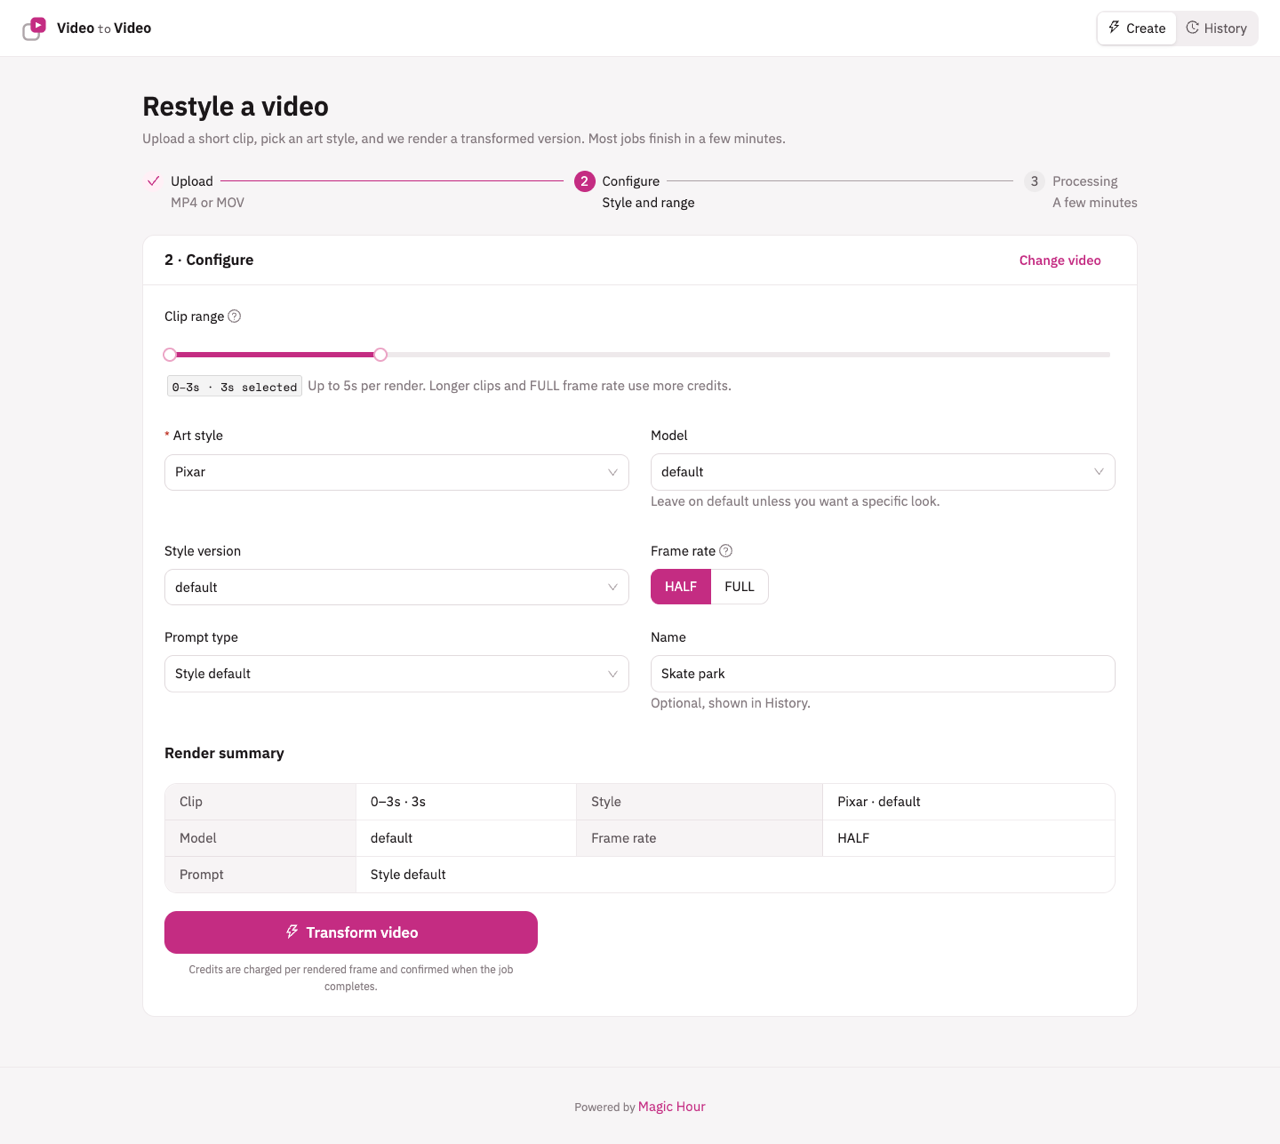
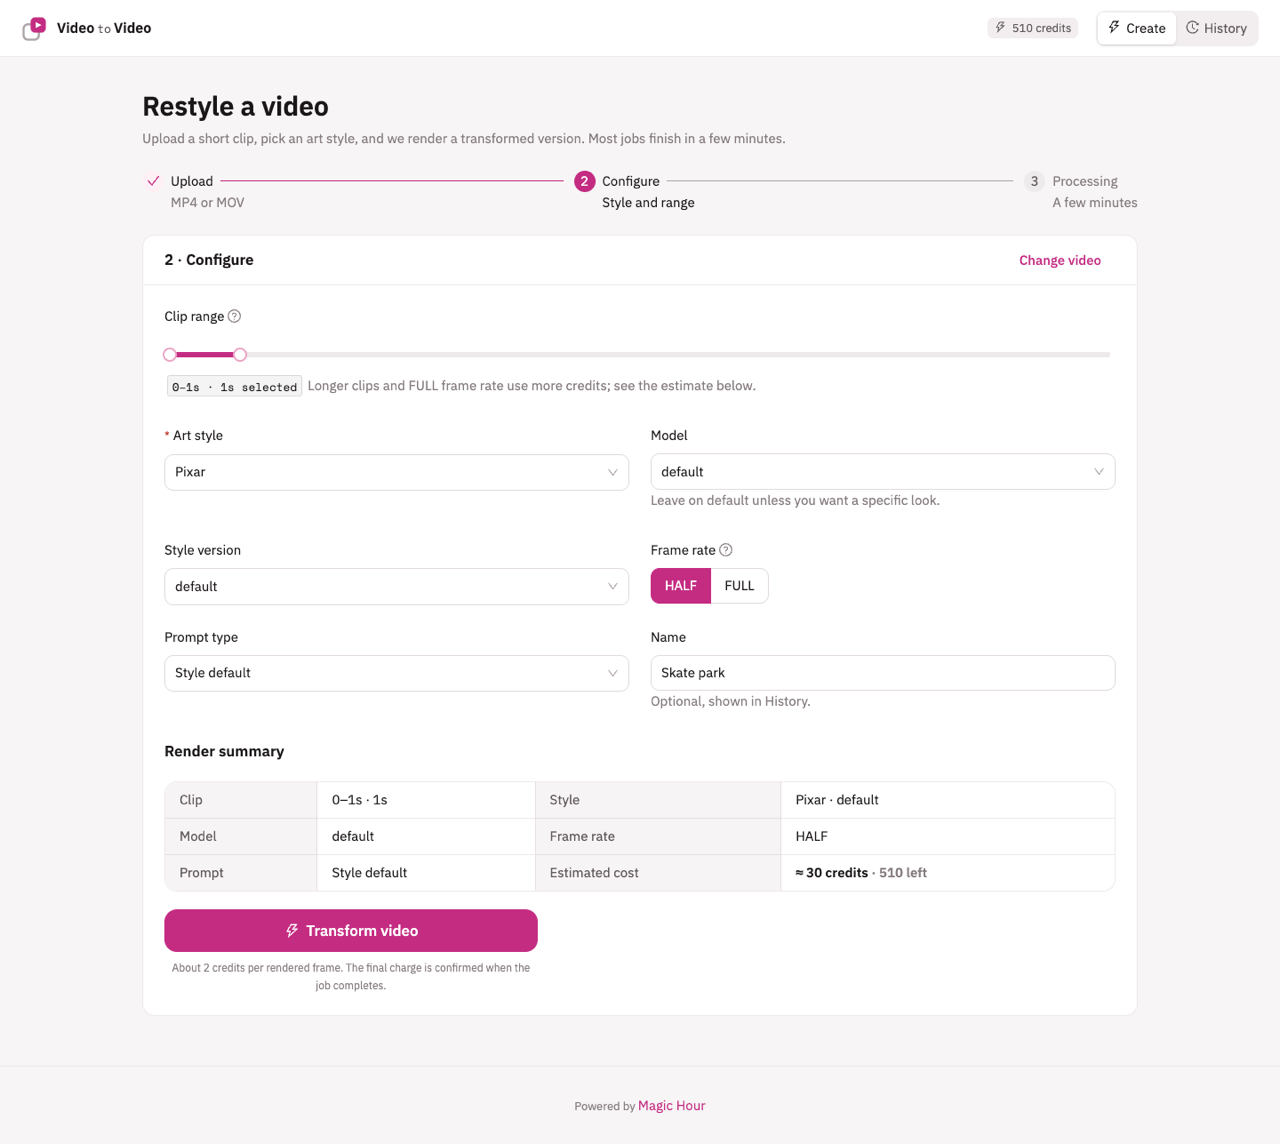
feat: remove the 5s clip cap and default to a 1s range
The cap's slider normalize fought the drag and made the handle jitter. The live cost estimate and balance check now protect the budget; the form defaults to 1s (about 30 credits at HALF).

diff --git a/src/components/TransformForm.tsx b/src/components/TransformForm.tsx
@@ -9,7 +9,6 @@ import {
   ART_STYLES,
   estimateCredits,
   FPS_RESOLUTIONS,
-  MAX_CLIP_SECONDS,
   MODELS,
   PROMPT_TYPES,
   type TransformParams,
@@ -26,13 +25,6 @@ const PROMPT_TYPE_LABELS: Record<(typeof PROMPT_TYPES)[number], string> = {
   append_default: "Style default + my prompt",
 };
 const round1 = (n: number) => Math.round(n * 10) / 10;
-
-// Keeps the range within MAX_CLIP_SECONDS by dragging the other handle along.
-function capRange(value: [number, number], prev?: [number, number]): [number, number] {
-  const [start, end] = value;
-  if (end - start <= MAX_CLIP_SECONDS) return value;
-  return prev && start !== prev[0] ? [start, round1(start + MAX_CLIP_SECONDS)] : [round1(end - MAX_CLIP_SECONDS), end];
-}
 
 interface Props {
   source: UploadedVideo;
@@ -83,7 +75,7 @@ export function TransformForm({ source, initial, onSubmitted }: Props) {
       onFinish={submit}
       disabled={submitting}
       initialValues={{
-        range: initial ? [initial.start_seconds, initial.end_seconds] : [0, Math.min(3, max)],
+        range: initial ? [initial.start_seconds, initial.end_seconds] : [0, Math.min(1, max)],
         fps_resolution: initial?.fps_resolution ?? "HALF",
         name: initial?.name,
         style: initial?.style ?? { version: "default", model: "default", prompt_type: "default" },
@@ -95,7 +87,6 @@ export function TransformForm({ source, initial, onSubmitted }: Props) {
         label="Clip range"
         name="range"
         tooltip="Only the selected range is transformed."
-        normalize={capRange}
         extra={
           <>
             {range && (
@@ -103,7 +94,7 @@ export function TransformForm({ source, initial, onSubmitted }: Props) {
                 {range[0]}–{range[1]}s · {round1(range[1] - range[0])}s selected
               </Typography.Text>
             )}{" "}
-            Up to {MAX_CLIP_SECONDS}s per render. Longer clips and FULL frame rate use more credits.
+            Longer clips and FULL frame rate use more credits; see the estimate below.
           </>
         }
         rules={[

diff --git a/src/lib/schemas.ts b/src/lib/schemas.ts
@@ -48,9 +48,6 @@ export interface UploadedVideo {
   name?: string; // original file name, added client-side
 }
 
-// Caps credit spend per job (~30 credits per second at HALF frame rate).
-export const MAX_CLIP_SECONDS = 5;
-
 // Magic Hour prices video-to-video at 48 credits/second at 24 fps, i.e. 2 credits per rendered frame.
 // HALF renders every other frame. Magic Hour corrects the charge after rendering, so this is an estimate.
 const CREDITS_PER_FRAME = 2;
@@ -79,10 +76,6 @@ export const transformParamsSchema = z
   })
   .refine((p) => p.end_seconds > p.start_seconds, {
     message: "End time must be after start time",
-    path: ["end_seconds"],
-  })
-  .refine((p) => p.end_seconds - p.start_seconds <= MAX_CLIP_SECONDS + 1e-9, {
-    message: `Clip can be at most ${MAX_CLIP_SECONDS} seconds`,
     path: ["end_seconds"],
   })
   .refine((p) => p.style.prompt_type === "default" || !!p.style.prompt, {

diff --git a/README.md b/README.md
@@ -69,7 +69,7 @@ npm run dev                       # http://localhost:3000
 |---|---|
 | `npm run dev` / `build` / `start` | Next.js dev server, production build, production server |
 | `npm run lint` | ESLint |
-| `npm run check:logic` | Assertion checks for input validation, the 5 s clip cap, the credit estimate and webhook signature verification. Needs no keys. |
+| `npm run check:logic` | Assertion checks for input validation, the credit estimate and webhook signature verification. Needs no keys. |
 | `npm run check:services` | Connects to MongoDB, Cloudinary and Magic Hour with your `.env.local`. Free. |
 | `npm run webhook:replay -- <mhJobId> [completed\|errored] [url]` | Sends a correctly signed Magic Hour-style event to your local app, for testing the webhook without a tunnel |
 
@@ -102,7 +102,7 @@ Indexes are created automatically on first connection.
 
 ### Magic Hour credits
 
-The free tier starts with 500 credits. Magic Hour prices video-to-video at **48 credits per second at 24 fps**, i.e. **2 credits per rendered frame**. HALF renders every other frame, so a 30 fps clip costs about 30 credits per second at HALF and 60 at FULL (matching the charges on our real test jobs). To protect the budget, **clips are capped at 5 seconds**, enforced in both the form and the API.
+The free tier starts with 500 credits. Magic Hour prices video-to-video at **48 credits per second at 24 fps**, i.e. **2 credits per rendered frame**. HALF renders every other frame, so a 30 fps clip costs about 30 credits per second at HALF and 60 at FULL (matching the charges on our real test jobs).
 
 The app shows the account's **remaining credits** in the header (`GET /api/credits`) and a live **estimated cost** in the render summary before submitting: `2 × clip seconds × output fps`, using the source frame rate Cloudinary reports at upload. Submit is disabled when the estimate exceeds the balance. Magic Hour settles the exact charge after rendering, and History shows that final number.
 
@@ -289,4 +289,4 @@ scripts/                     check-logic, check-services, replay-webhook
 - **Anonymous history.** It's per browser, so a different browser or a private window has its own history.
 - **History shows the newest 50 items.** Paging (an `_id < before` cursor) is a small addition if needed.
 - **No background worker.** Fallback polling runs only when someone views History or the Processing step. Webhooks cover the rest in production.
-- **The 5 s clip cap** exists to protect the free credit budget. It's one constant (`MAX_CLIP_SECONDS` in `src/lib/schemas.ts`).
+- **No clip length cap.** The budget is protected by the live cost estimate and the balance check, and the form defaults to a 1 s range (≈30 credits at HALF). Magic Hour itself rejects jobs the account can't afford (402).

diff --git a/AGENTS.md b/AGENTS.md
@@ -20,7 +20,7 @@ Video to Video: upload a short clip, pick a Magic Hour art style, get an AI-rest
 |---|---|
 | `npm run dev` | Dev server on :3000. Needs `.env.local` (see `.env.example`). |
 | `npx tsc --noEmit` · `npm run lint` · `npm run build` | Run all three before calling a change done. |
-| `npm run check:logic` | Assertion checks for schemas, the clip cap, the credit estimate and webhook signatures. No keys needed; extend it when you touch that logic. |
+| `npm run check:logic` | Assertion checks for schemas, the credit estimate and webhook signatures. No keys needed; extend it when you touch that logic. |
 | `npm run check:services` | Verifies MongoDB, Cloudinary and Magic Hour credentials. Free. |
 | `npm run webhook:replay -- <mhJobId> [completed\|errored]` | Sends a signed test webhook to the local app. |
 
@@ -41,7 +41,7 @@ There is no unit-test framework on purpose; `check:logic` is the test suite.
 2. **Results only go through `applyProjectResult`.** It is idempotent (final states are never overwritten, and the Cloudinary public id is the job id) because Magic Hour retries webhooks for 24 h.
 3. **Webhook:** verify the HMAC signature over the **raw** body before parsing. Return non-2xx only when a retry should happen (404 unknown job, 500 transient failure).
 4. **`timed_out` is not final.** A late result must still be able to complete the record.
-5. **Validation lives in zod schemas** used on both sides. Server routes must never trust the client (upload URL allowlist, own-Cloudinary source check, 5 s clip cap).
+5. **Validation lives in zod schemas** used on both sides. Server routes must never trust the client (upload URL allowlist, own-Cloudinary source check).
 6. **Secrets stay server-side.** Only `NEXT_PUBLIC_UPLOADCARE_PUBLIC_KEY` reaches the browser. Read env through `env()` (lazy, zod-validated).
 7. API errors are `{ error: string }` with a user-facing message; log details server-side with `console.error`.
 

diff --git a/docs/api.md b/docs/api.md
@@ -25,7 +25,7 @@ Starts a Magic Hour job. `params` mirrors Magic Hour's request body, so every mo
   "source": { "url": "https://res.cloudinary.com/<cloud>/video/upload/…", "publicId": "video2video/sources/<id>" },
   "params": {
     "name": "Skate park",                       // optional
-    "start_seconds": 0, "end_seconds": 3,       // end > start, length ≤ 5 s
+    "start_seconds": 0, "end_seconds": 3,       // end > start, within the video
     "fps_resolution": "HALF",                   // HALF | FULL
     "style": {
       "art_style": "Pixar",                     // one of 75 styles
